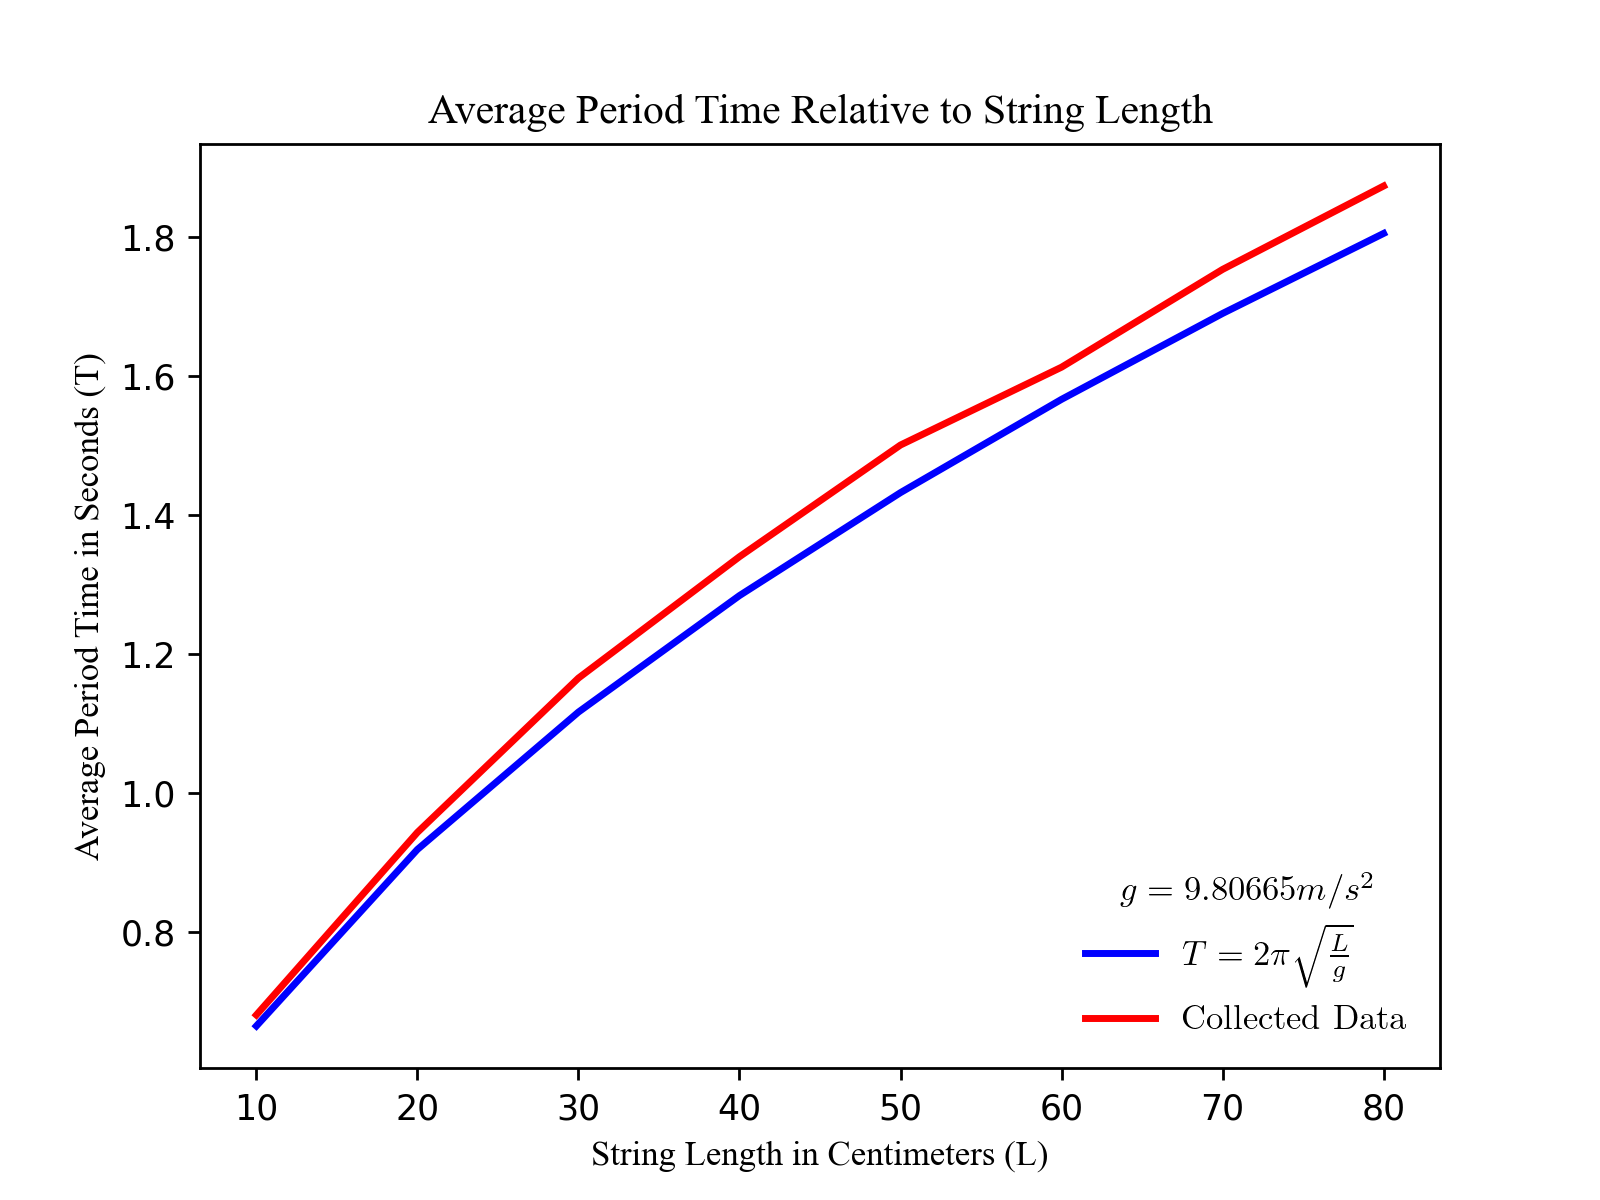
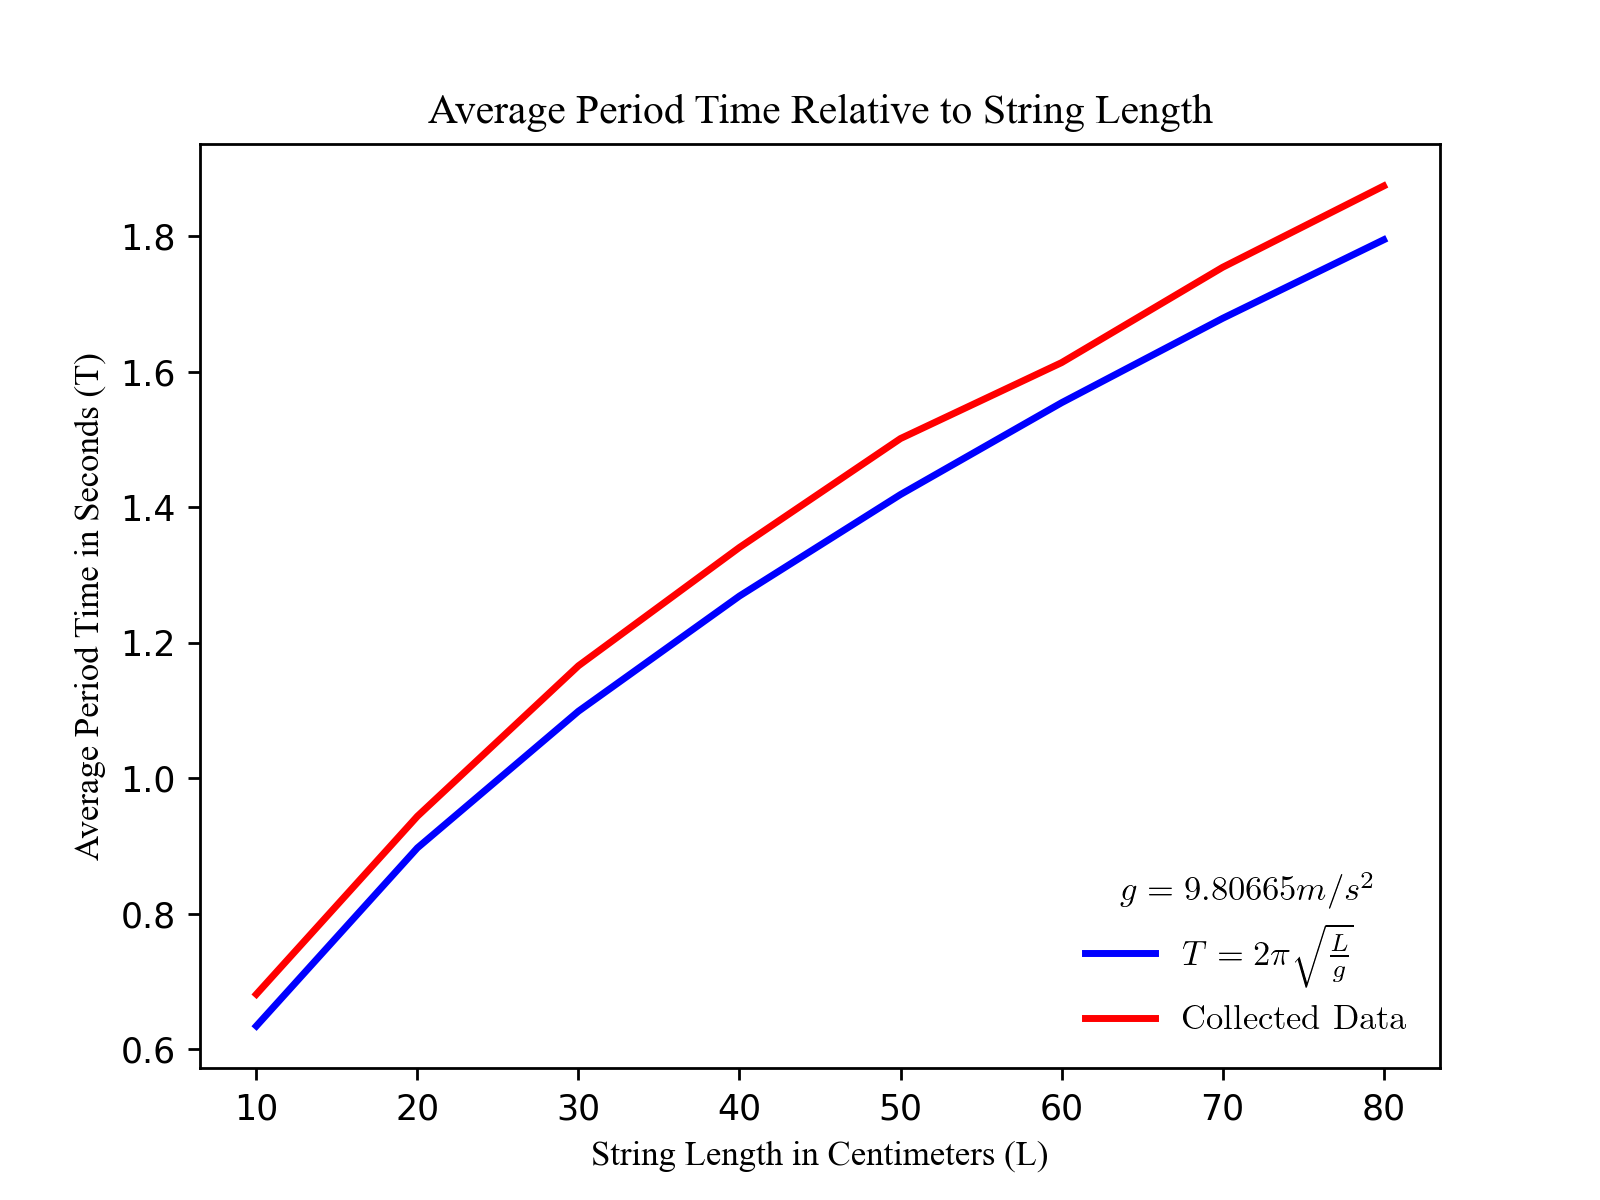
update report

diff --git a/graph.py b/graph.py
@@ -1,20 +1,21 @@
 import csv
 import math
 import matplotlib.pyplot as plt
-from matplotlib.ticker import FormatStrFormatter
 
 x1 = []
 y1 = []
 
-with open("data.csv", newline="") as csvfile:
-    reader = csv.DictReader(csvfile)
+#Find averaged data
+with open("collected_data.csv", newline="") as col_csvfile:
+    reader = csv.DictReader(col_csvfile)
     for row in reader:
         average_time = (float(row["trial1"]) + float(row["trial2"]) + float(row["trial3"])) / 15
         y1.append(average_time)
 
-        length = row["distance"]
+        length = row["length"]
         x1.append(length)
 
+#Calculate experimental data
 y2 = []
 
 for i in range(8):
@@ -22,11 +23,38 @@ for i in range(8):
     time = 2*math.pi*math.sqrt(distance/9.80665)
     y2.append(time)
 
+#Write averaged data to csv file
+with open("averaged_data.csv", "w", newline="") as avg_csvfile:
+    csvwriter = csv.writer(avg_csvfile)
+    for x in range(8):
+        gravity = float(4*(math.pi**2)*(float(x1[x])/100))/(float(y1[x])**2)
+        grav_format = str(round(gravity,5))
+        percent_error = str(round(((y1[x]-y2[x])/y2[x]*100),2))+"%"
+        distance = str((x+1)*10)+"cm"
+        experiment = str(round(y1[x], 2))+"s"
+        theory = str(round(y2[x], 2))+"s"
+        row = [distance,experiment,theory,percent_error, grav_format]
+        csvwriter.writerow(row)
+
+#Find gravity from experimental data
+results = []
+for y in range(8):
+    fourpisqrd = float(4*(math.pi**2))
+    length = float(x1[y])/100
+    timesqrd = float(y1[y]**2)
+    gravity = (fourpisqrd*length)/timesqrd
+    results.append(gravity)
+
+average_gravity = sum(results)/len(results)
+print(average_gravity)
+
+#Find percentage error
 experiment = sum(y1)/8
 theory = sum(y2)/8
 error = abs((experiment-theory)/theory)*100
 print(f"Percentage Error: {error}"  )
 
+#Graph data
 fig, ax = plt.subplots()
 plt.rcParams['text.usetex'] = True
 font = {"fontname":"Times New Roman"}
